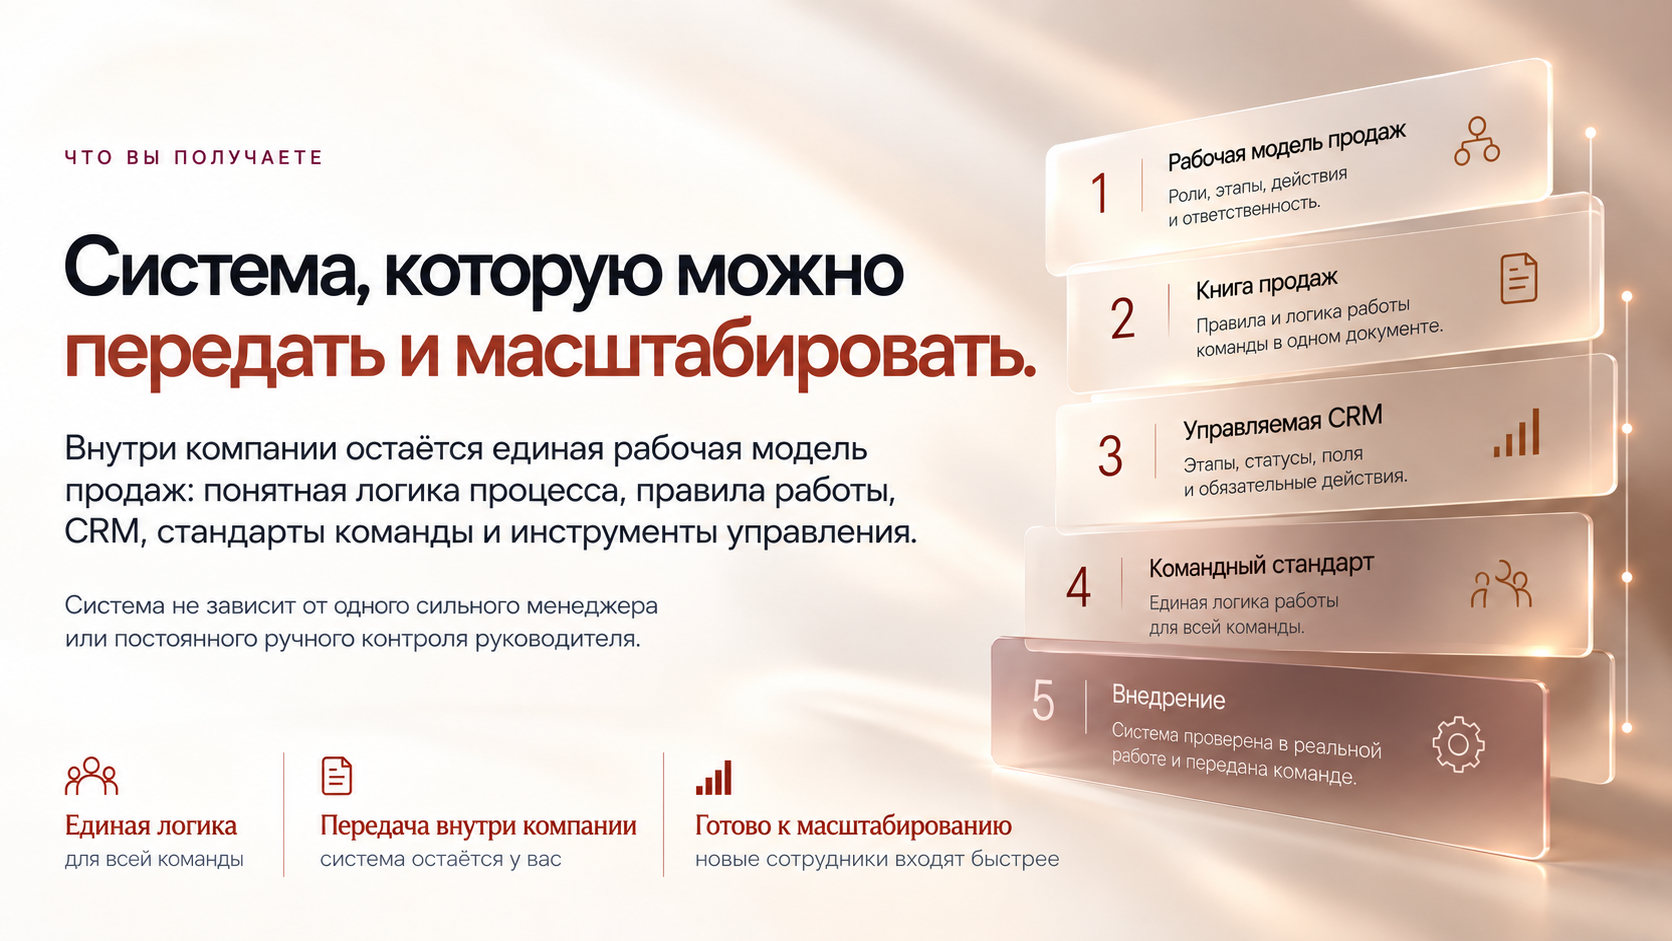
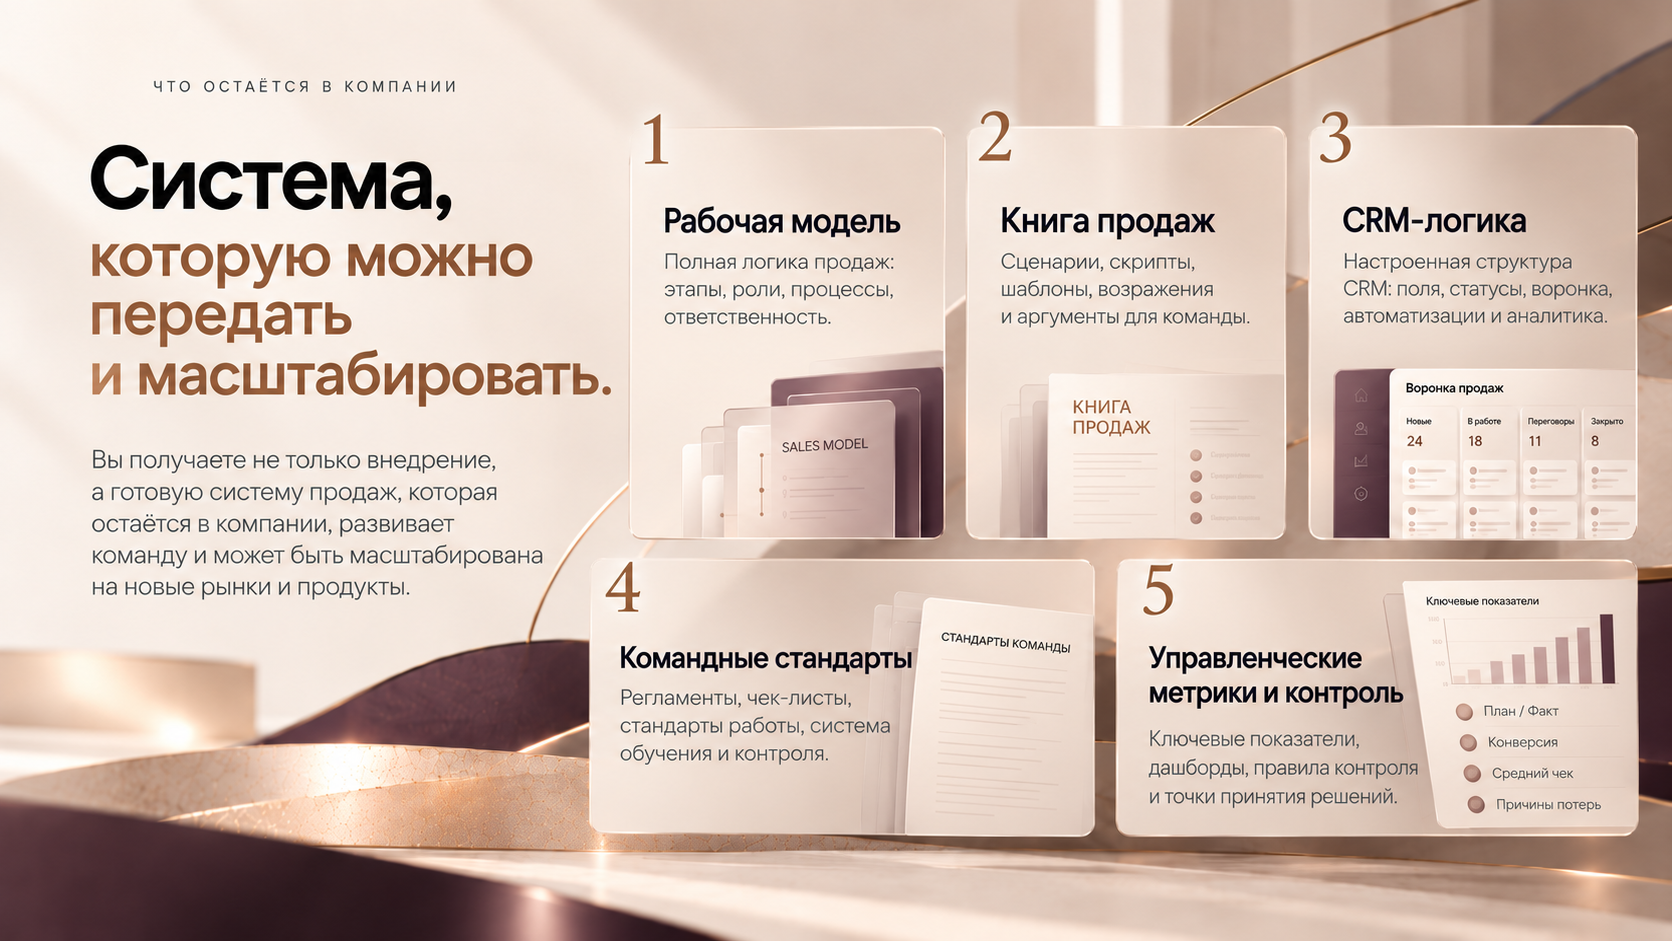
Replace scalable sales system slide

diff --git a/index.html b/index.html
@@ -64,7 +64,7 @@
 
     <section class="screen" id="deliverables" aria-labelledby="deliverables-title">
       <h2 id="deliverables-title" class="sr-only">Система, которую можно передать и масштабировать.</h2>
-      <img src="assets/screen-06.png" alt="Рабочая модель продаж, книга продаж, управляемая CRM, командный стандарт и внедрение." width="1680" height="945" loading="lazy">
+      <img src="assets/screen-06.png?v=18" alt="Система продаж для масштабирования: рабочая модель, книга продаж, CRM-логика, командные стандарты и управленческие метрики." width="1672" height="941" loading="lazy">
     </section>
 
     <section class="screen" id="formats" aria-labelledby="formats-title">
